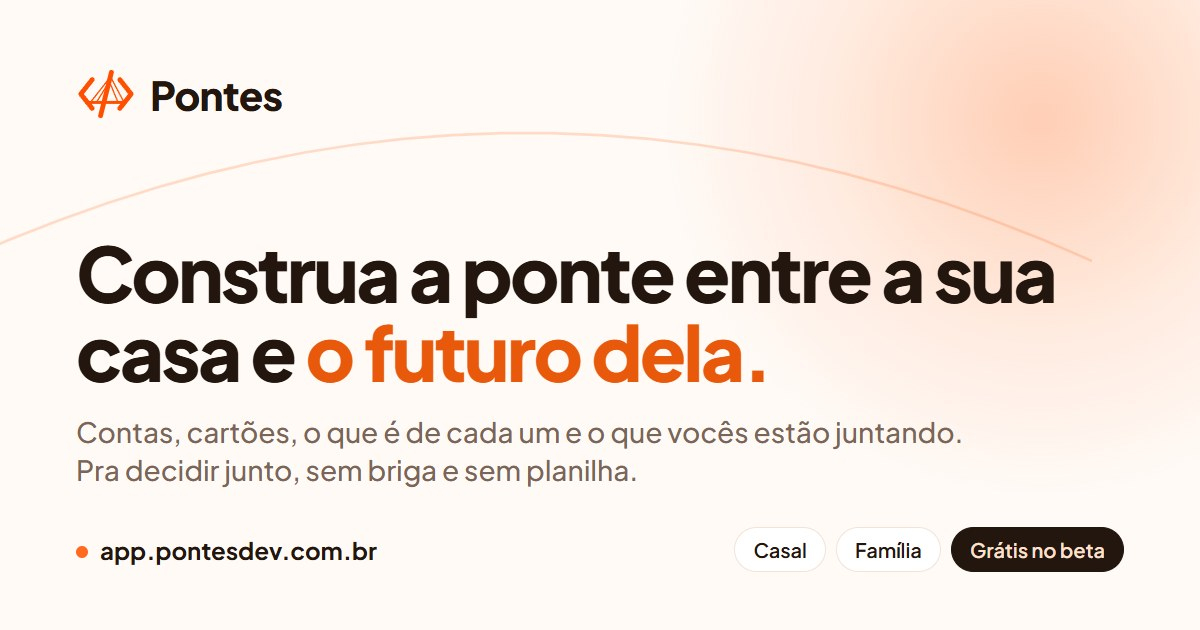
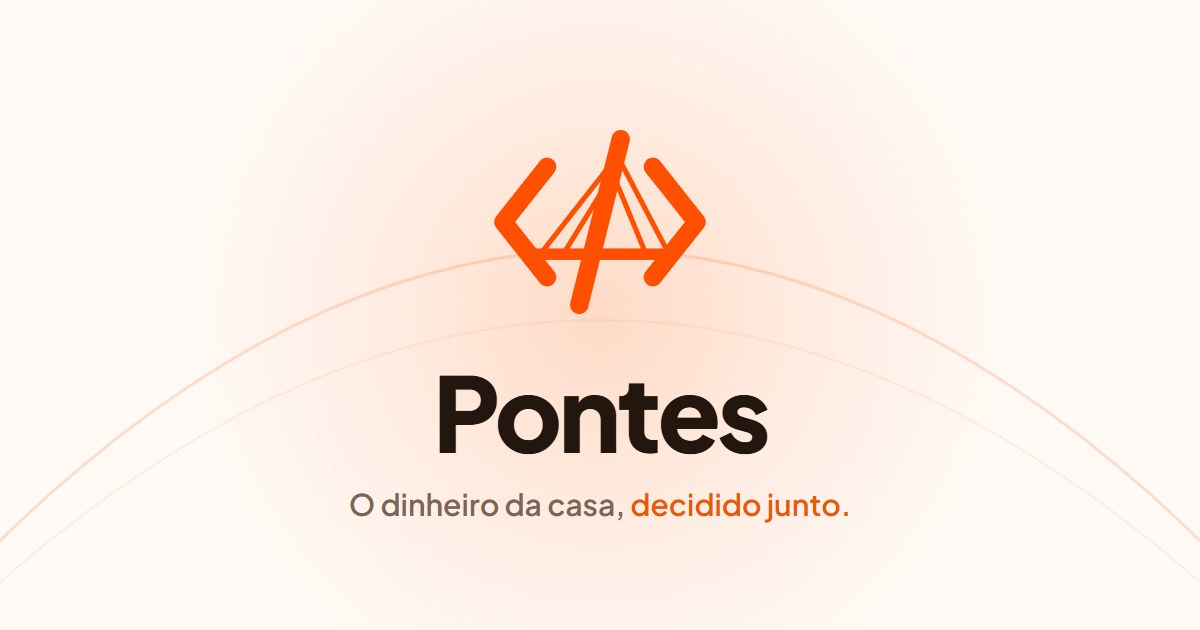
Prévia do link: marca no centro (corte quadrado do WhatsApp) (#417)
## O que muda

A prévia pequena do WhatsApp (computador, ou quando ele decide pela
pequena) corta a `og:image` num **quadrado pelo centro**. A arte do #416
tinha texto de ponta a ponta e virava um pedaço de frase.

- **Arte nova** (`scripts/compartilhar.html` →
`public/compartilhar.jpg`, 41 KB): marca, "Pontes" e "O dinheiro da
casa, decidido junto." dentro do quadrado central 630x630. Conferido
recortando o quadrado: fica inteiro.
- **Texto mais curto**: `og:title` "Pontes · o dinheiro da casa,
decidido junto"; `og:description` com ~80 caracteres (o que a doc da
Meta pede).
- **Scripts**: `compartilhar.mjs` e `printsMoveis.mjs` apontavam pra
`puppeteer-core/lib/esm/...`, que sumiu na versão 25 do pacote no
PontesDev; agora `lib/puppeteer/puppeteer-core.js`.

Regras da prévia grande (Meta, link-previews): `og:image` com endereço
completo, menos de 600 KB, 300 px ou mais de largura, proporção até 4:1;
`og:title`/`og:description`/`og:url` não vazios no `<head>`.

🤖 Generated with [Claude Code](https://claude.com/claude-code)

diff --git a/controle-financeiro.web/scripts/compartilhar.html b/controle-financeiro.web/scripts/compartilhar.html
@@ -1,46 +1,38 @@
 <!doctype html>
 <!-- Imagem que aparece quando alguém compartilha o link do app (WhatsApp, Instagram, LinkedIn...): 1200x630, gravada
-     em public/compartilhar.jpg por `node scripts/compartilhar.mjs`. Cores e fonte do site público (src/site/site.css). -->
+     em public/compartilhar.jpg por `node scripts/compartilhar.mjs`. Cores e fonte do site público (src/site/site.css).
+     Tudo que importa fica no QUADRADO do meio (630x630): a prévia pequena do WhatsApp corta a imagem em quadrado pelo
+     centro. O título e a descrição já saem em texto ao lado, então a arte não repete frase longa. -->
 <html lang="pt-BR">
 <head>
 <meta charset="utf-8">
-<link rel="stylesheet" href="https://fonts.googleapis.com/css2?family=Plus+Jakarta+Sans:wght@500;600;700;800&display=block">
+<link rel="stylesheet" href="https://fonts.googleapis.com/css2?family=Plus+Jakarta+Sans:wght@600;700;800&display=block">
 <style>
   html, body { margin: 0; }
   body { width: 1200px; height: 630px; overflow: hidden; background: #fffaf6; color: #22160f; font-family: 'Plus Jakarta Sans', system-ui, sans-serif; }
-  .arte { position: relative; box-sizing: border-box; height: 100%; padding: 64px 76px 58px; display: flex; flex-direction: column; overflow: hidden; }
-  /* O brilho laranja do canto, como o topo do site. */
-  .arte::before { content: ''; position: absolute; right: -220px; top: -260px; width: 760px; height: 760px; border-radius: 50%;
-    background: radial-gradient(circle, rgba(255,106,31,.30) 0%, rgba(255,106,31,.10) 40%, rgba(255,106,31,0) 70%); }
-  /* A ponte: um arco fino atravessando o fundo. */
-  .arco { position: absolute; left: -40px; right: -40px; top: 40px; height: 230px; }
-  .arte > *:not(.arco) { position: relative; }
-  .marca { display: flex; align-items: center; gap: 14px; font-size: 40px; font-weight: 800; letter-spacing: -.02em; }
-  .marca svg { width: 60px; height: 60px; }
-  h1 { margin: auto 0 0; max-width: 980px; font-size: 76px; line-height: 1.04; font-weight: 800; letter-spacing: -.035em; }
-  h1 span { color: #e8590c; }
-  .lede { margin: 22px 0 0; font-size: 28px; line-height: 1.35; font-weight: 500; color: #7a6557; max-width: 900px; }
-  .pe { margin-top: 38px; display: flex; align-items: center; justify-content: space-between; font-size: 24px; font-weight: 700; }
-  .pe .site::before { content: ''; display: inline-block; width: 12px; height: 12px; margin-right: 12px; border-radius: 50%; background: #ff6a1f; vertical-align: 2px; }
-  .selos { display: flex; gap: 10px; }
-  .selos span { padding: 9px 18px; border-radius: 99px; background: #fff; border: 1px solid #f1e3d8; font-size: 20px; font-weight: 600; color: #22160f; }
-  .selos span:last-child { background: #22160f; border-color: #22160f; color: #ffe0cf; }
+  .arte { position: relative; height: 100%; display: grid; place-items: center; overflow: hidden; }
+  /* Brilho laranja atrás da marca, como o topo do site. */
+  .arte::before { content: ''; position: absolute; left: 50%; top: 50%; width: 900px; height: 900px; transform: translate(-50%, -50%); border-radius: 50%;
+    background: radial-gradient(circle, rgba(255,106,31,.22) 0%, rgba(255,106,31,.08) 38%, rgba(255,106,31,0) 66%); }
+  /* A ponte: arcos finos de um lado a outro. */
+  .arco { position: absolute; left: 0; top: 0; width: 1200px; height: 630px; }
+  .centro { position: relative; display: flex; flex-direction: column; align-items: center; gap: 22px; }
+  .centro svg { width: 230px; height: 230px; }
+  .nome { font-size: 104px; line-height: 1; font-weight: 800; letter-spacing: -.035em; }
+  .frase { font-size: 30px; font-weight: 600; color: #7a6557; }
+  .frase span { color: #e8590c; }
 </style>
 </head>
 <body>
 <div class="arte">
-  <svg class="arco" viewBox="0 0 1280 260" preserveAspectRatio="none" fill="none" aria-hidden="true">
-    <path d="M0 250 Q640 -40 1280 250" stroke="#ff6a1f" stroke-opacity=".22" stroke-width="3"/>
+  <svg class="arco" viewBox="0 0 1200 630" fill="none" aria-hidden="true">
+    <path d="M-20 560 Q600 -60 1220 560" stroke="#ff6a1f" stroke-opacity=".20" stroke-width="3"/>
+    <path d="M-20 600 Q600 40 1220 600" stroke="#ff6a1f" stroke-opacity=".10" stroke-width="2"/>
   </svg>
-  <div class="marca">
+  <div class="centro">
     <svg viewBox="0 0 100 100" fill="none" stroke-linecap="round" stroke-linejoin="round" stroke="#ff4f00"><path d="M27 26L8 50L27 74" stroke-width="8"/><path d="M73 26L92 50L73 74" stroke-width="8"/><path d="M59 14L41 86" stroke-width="8"/><path d="M18 64H82" stroke-width="5"/><path d="M57 22L24 64M55 30L34 64M58 22L80 64M56 30L70 64" stroke-width="2.2"/></svg>
-    Pontes
-  </div>
-  <h1>Construa a ponte entre a sua casa e <span>o futuro dela.</span></h1>
-  <p class="lede">Contas, cartões, o que é de cada um e o que vocês estão juntando. Pra decidir junto, sem briga e sem planilha.</p>
-  <div class="pe">
-    <span class="site">app.pontesdev.com.br</span>
-    <span class="selos"><span>Casal</span><span>Família</span><span>Grátis no beta</span></span>
+    <div class="nome">Pontes</div>
+    <div class="frase">O dinheiro da casa, <span>decidido junto.</span></div>
   </div>
 </div>
 </body>

diff --git a/controle-financeiro.web/index.html b/controle-financeiro.web/index.html
@@ -11,13 +11,13 @@
     <meta property="og:site_name" content="Pontes" />
     <meta property="og:locale" content="pt_BR" />
     <meta property="og:url" content="https://app.pontesdev.com.br/" />
-    <meta property="og:title" content="Pontes · o dinheiro da casa, organizado pra casa decidir junto" />
-    <meta property="og:description" content="Contas, cartões, o que é de cada um e o que vocês estão juntando. Pra decidir junto, sem briga e sem planilha." />
+    <meta property="og:title" content="Pontes · o dinheiro da casa, decidido junto" />
+    <meta property="og:description" content="Contas, cartões e o que é de cada um, num lugar só. Sem briga e sem planilha." />
     <meta property="og:image" content="https://app.pontesdev.com.br/compartilhar.jpg" />
     <meta property="og:image:width" content="1200" />
     <meta property="og:image:height" content="630" />
     <meta property="og:image:type" content="image/jpeg" />
-    <meta property="og:image:alt" content="Pontes: construa a ponte entre a sua casa e o futuro dela." />
+    <meta property="og:image:alt" content="Pontes: o dinheiro da casa, decidido junto." />
     <meta name="twitter:card" content="summary_large_image" />
     <link rel="preconnect" href="https://fonts.googleapis.com" />
     <link rel="preconnect" href="https://fonts.gstatic.com" crossorigin />
